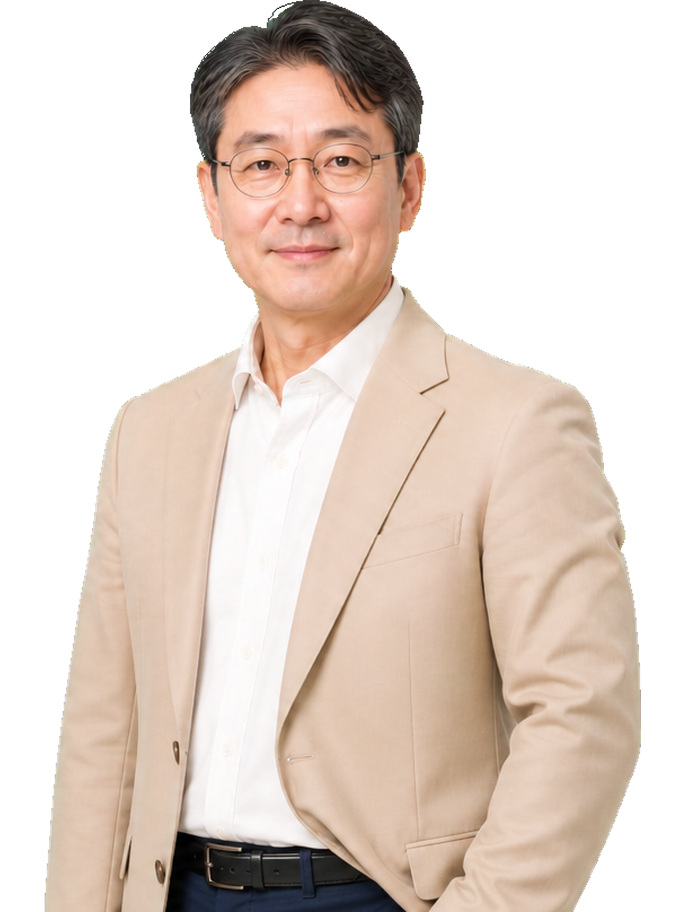
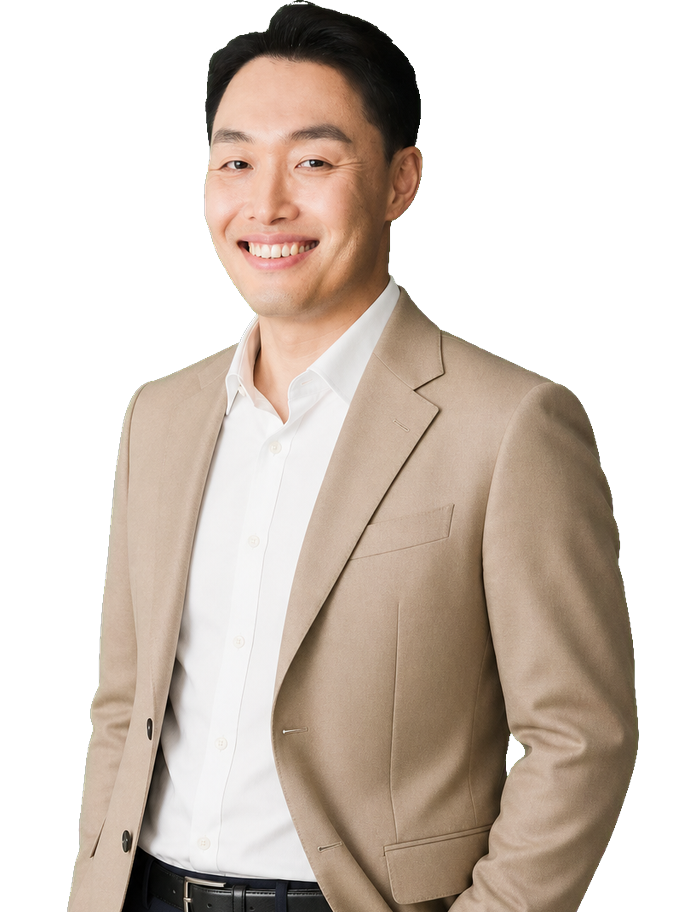
히어로 대표 사진을 첨부 인물로 교체합니다.

diff --git a/index.html b/index.html
@@ -63,7 +63,7 @@
       <figure class="shot lg">
         <div class="shot-pic">
           <img class="shot-card" src="img/ceo-card.png?v=20" alt="">
-          <img class="shot-who" src="img/ceo.png?v=32" alt="김판기 대표 세무사">
+          <img class="shot-who" src="img/ceo.png?v=33" alt="김판기 대표 세무사">
         </div>
         <figcaption>김판기 대표 세무사</figcaption>
       </figure>
